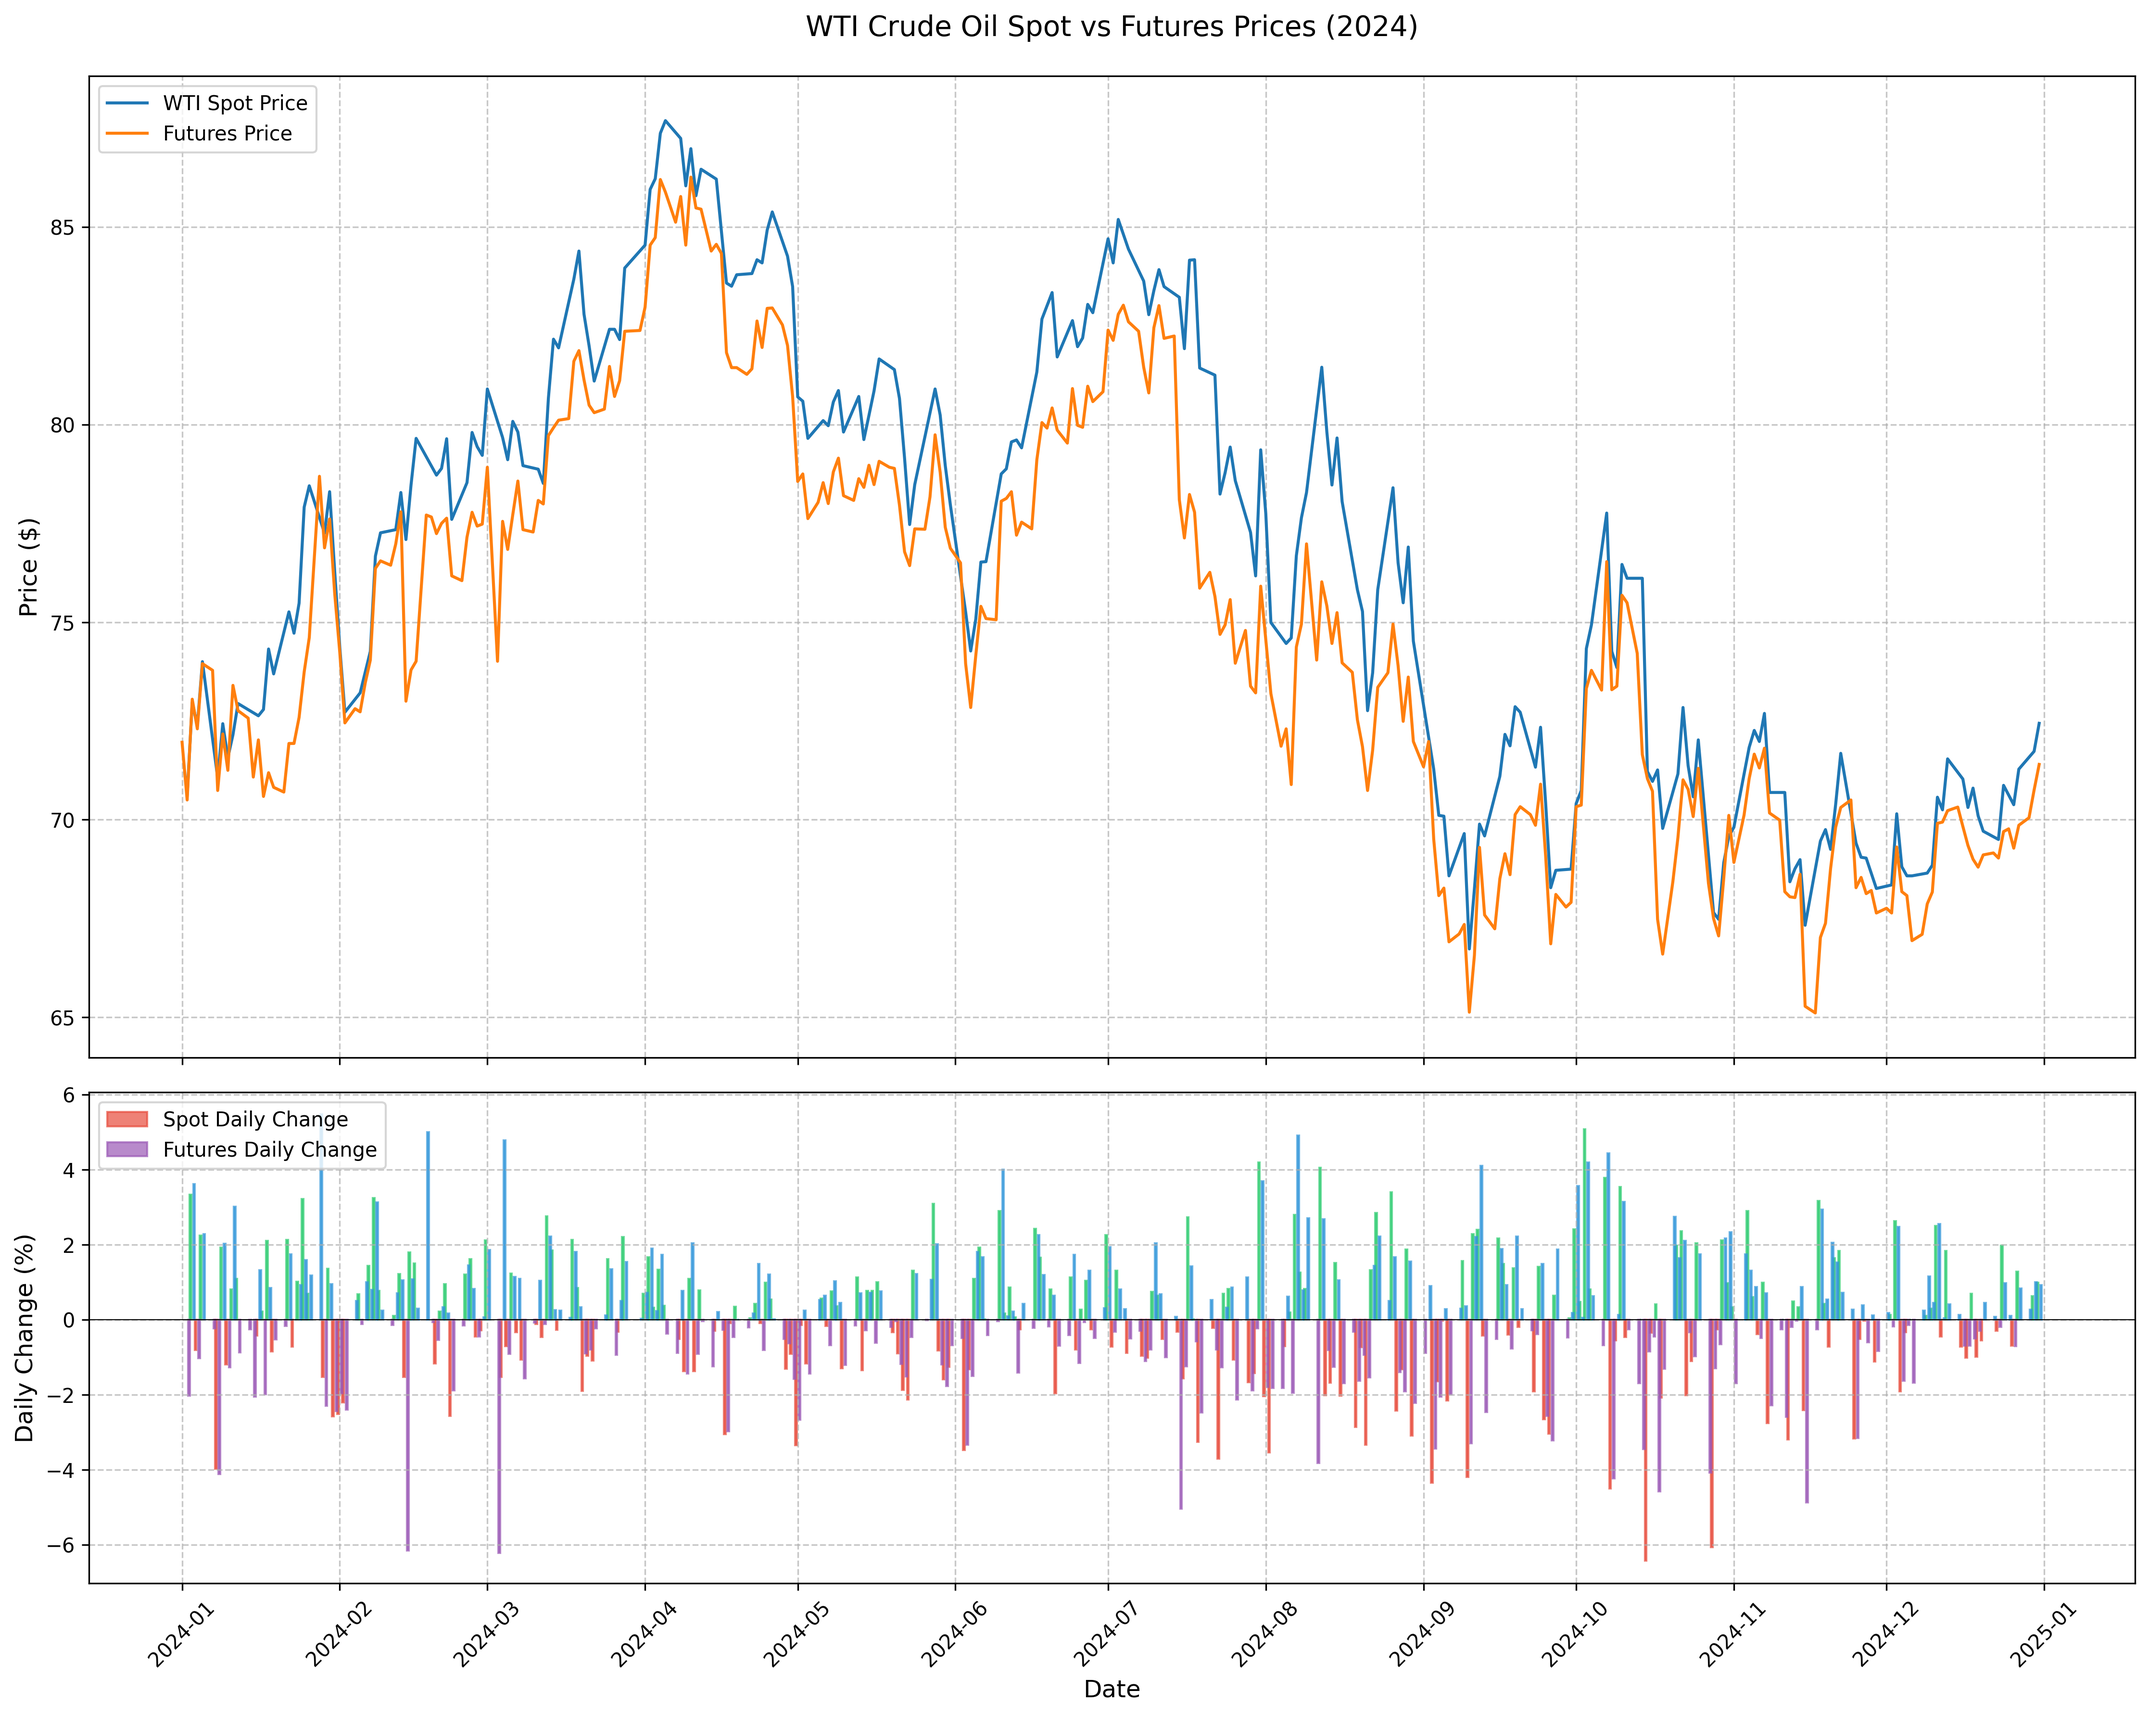
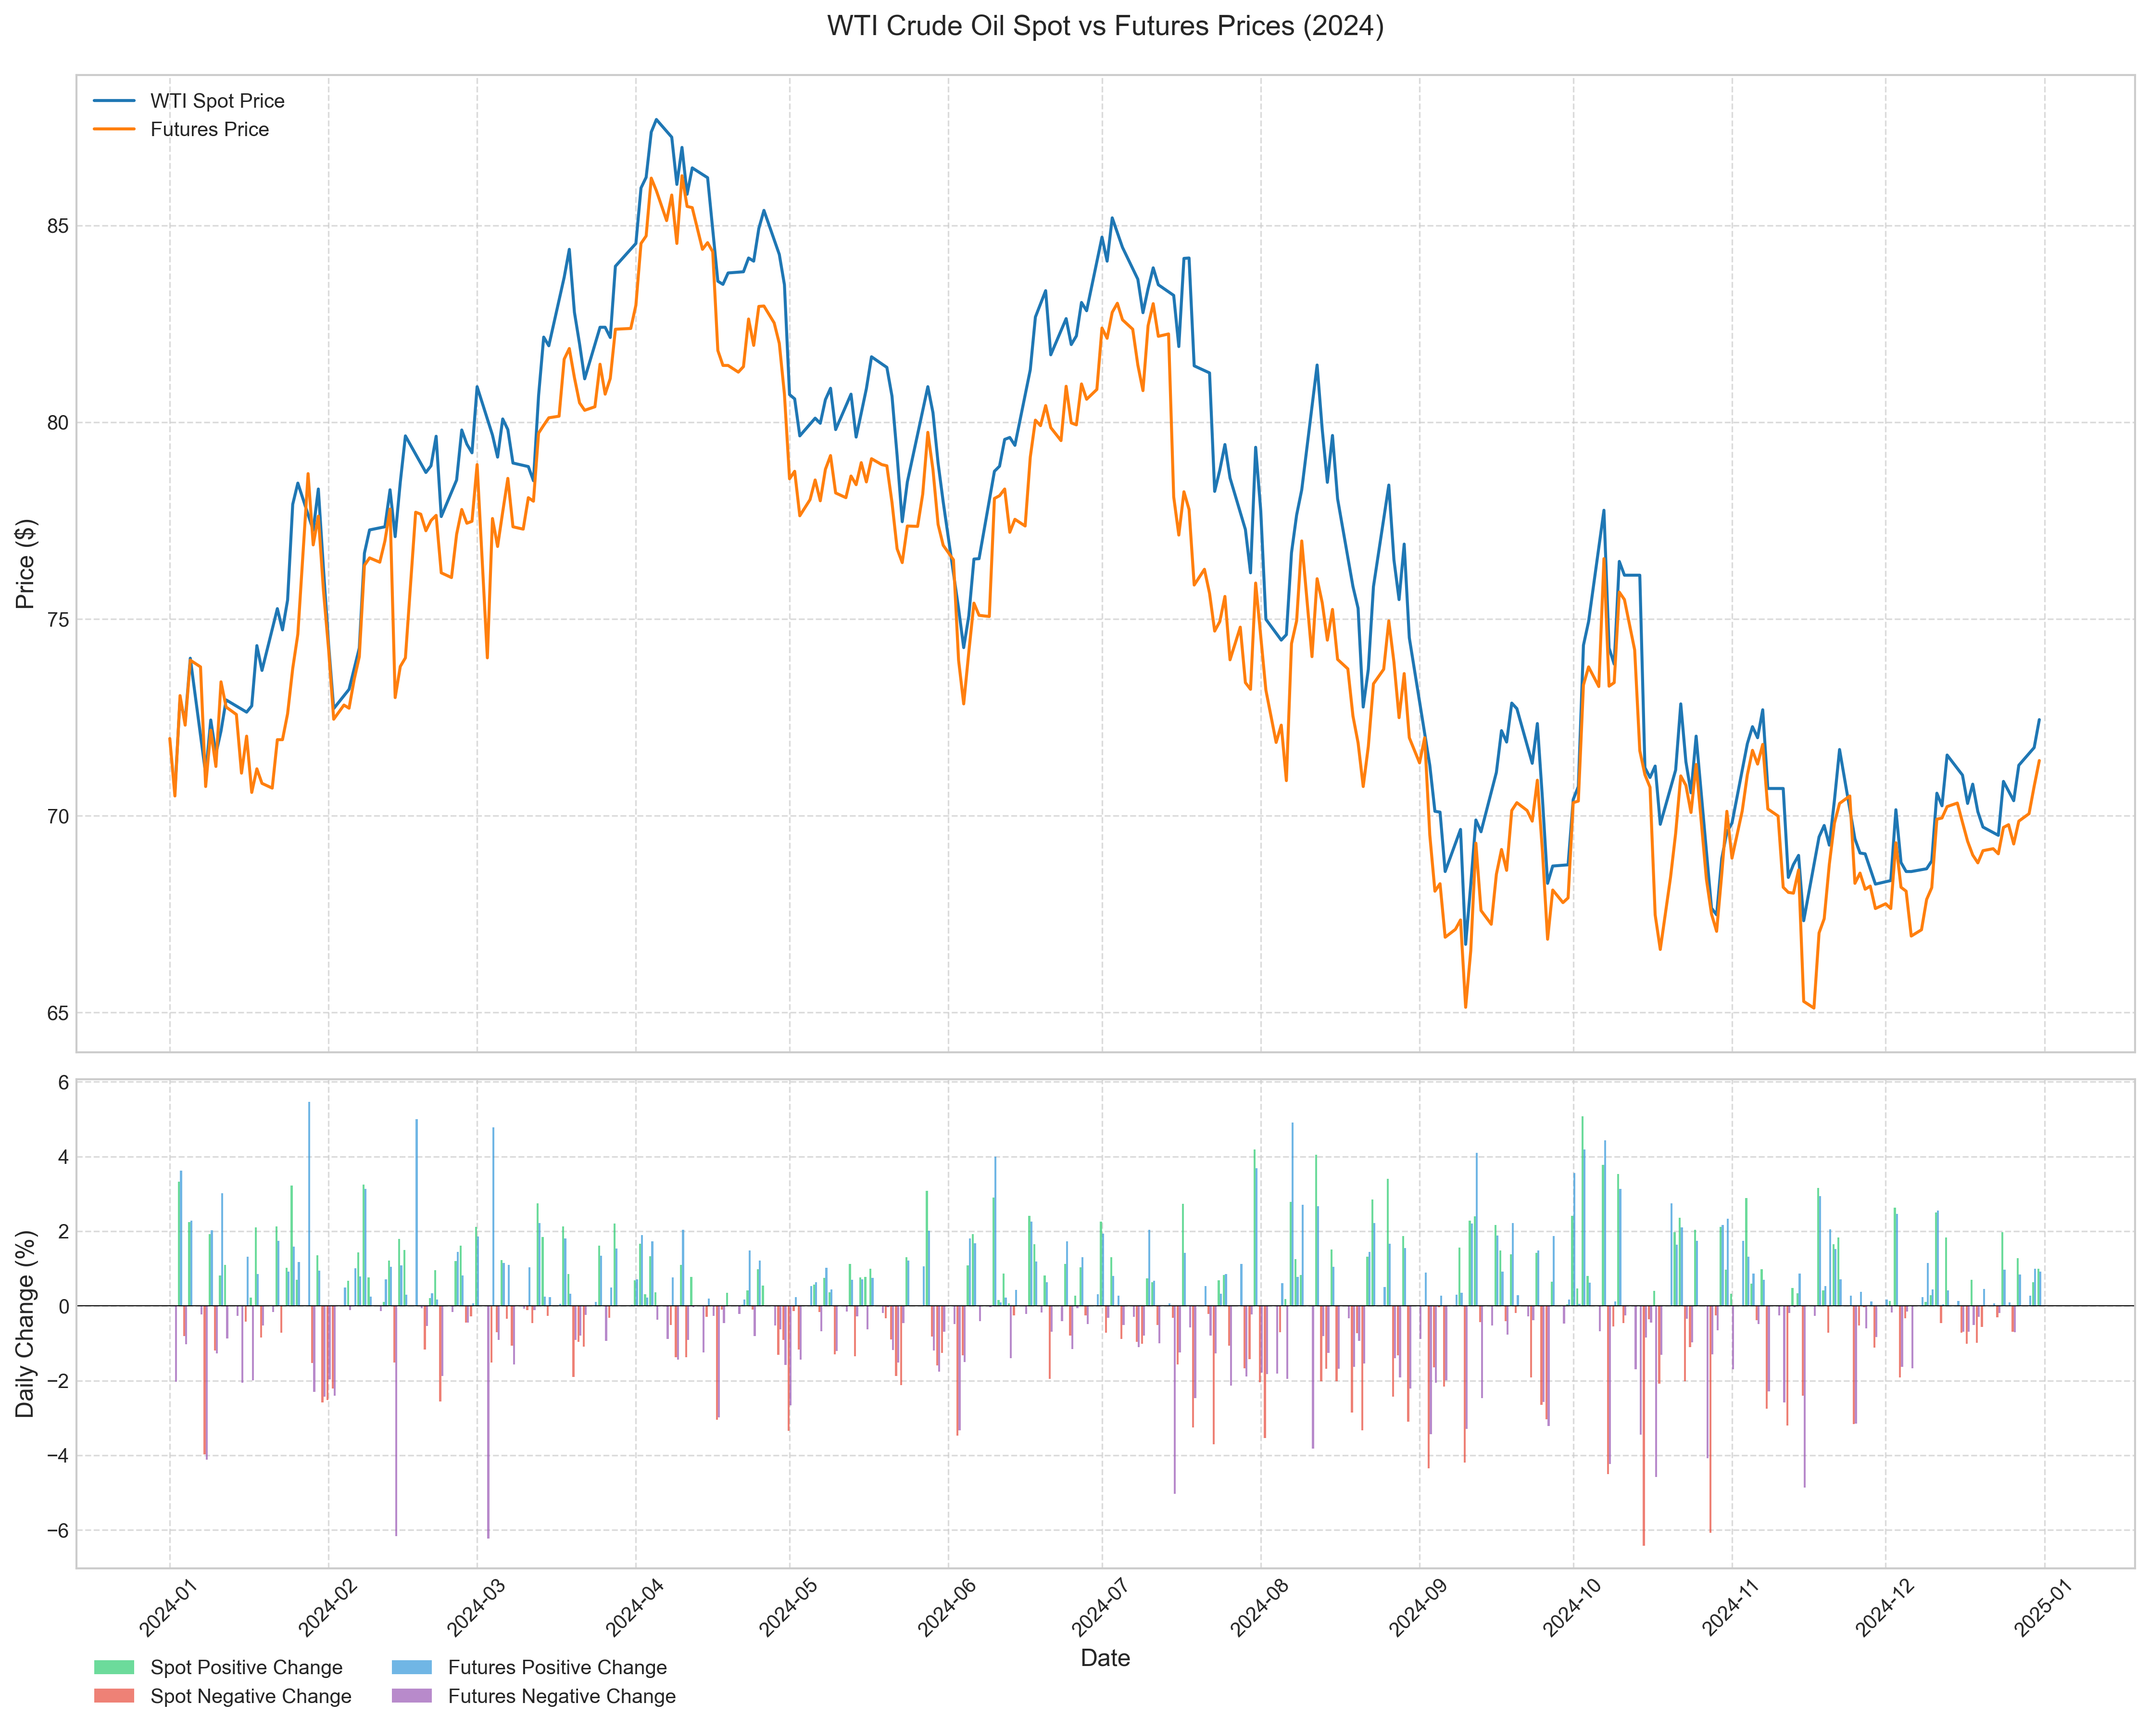
Fixed legend bug on mixed

diff --git a/analysis/mixed/compare_spot_futures.py b/analysis/mixed/compare_spot_futures.py
@@ -88,6 +88,9 @@ def get_futures_data():
     return df_futures
 
 def plot_comparison(df_spot, df_futures):
+    # Set style for better visibility
+    plt.style.use('seaborn-v0_8-whitegrid')
+    
     # Create figure with two subplots sharing x-axis
     fig, (ax1, ax2) = plt.subplots(2, 1, figsize=(15, 12), height_ratios=[2, 1], sharex=True)
     
@@ -103,35 +106,52 @@ def plot_comparison(df_spot, df_futures):
     ax1.grid(True, linestyle='--', alpha=0.7)
     ax1.legend(loc='upper left')
     
+    # Set y-axis limits with some padding
+    ymin = min(df_spot['price'].min(), df_futures['price'].min())
+    ymax = max(df_spot['price'].max(), df_futures['price'].max())
+    padding = (ymax - ymin) * 0.05
+    ax1.set_ylim(ymin - padding, ymax + padding)
+    
     # Bottom subplot - Daily changes
-    # Calculate bar width to avoid overlap
-    width = 0.35
+    # Calculate bar width to avoid overlap but ensure visibility
+    width = 0.4  # Increased width for better visibility
     
     # Create bars for spot prices (left position)
-    spot_bars = ax2.bar(df_spot['date'] - pd.Timedelta(days=width), 
-                       df_spot['daily_change'], 
-                       width=width, alpha=0.7, label='Spot Daily Change')
+    spot_mask_pos = df_spot['daily_change'] >= 0
+    spot_mask_neg = df_spot['daily_change'] < 0
+    
+    ax2.bar(df_spot.loc[spot_mask_pos, 'date'] - pd.Timedelta(days=width/2), 
+            df_spot.loc[spot_mask_pos, 'daily_change'], 
+            width=width, alpha=0.7, color='#2ecc71', label='Spot Positive Change')
+    ax2.bar(df_spot.loc[spot_mask_neg, 'date'] - pd.Timedelta(days=width/2), 
+            df_spot.loc[spot_mask_neg, 'daily_change'], 
+            width=width, alpha=0.7, color='#e74c3c', label='Spot Negative Change')
     
     # Create bars for futures prices (right position)
-    futures_bars = ax2.bar(df_futures['date'] + pd.Timedelta(days=width), 
-                          df_futures['daily_change'], 
-                          width=width, alpha=0.7, label='Futures Daily Change')
+    futures_mask_pos = df_futures['daily_change'] >= 0
+    futures_mask_neg = df_futures['daily_change'] < 0
     
-    # Color the bars based on positive/negative values
-    for bars, color_pos, color_neg in [(spot_bars, '#2ecc71', '#e74c3c'), 
-                                      (futures_bars, '#3498db', '#9b59b6')]:
-        for bar in bars:
-            if bar.get_height() >= 0:
-                bar.set_color(color_pos)
-            else:
-                bar.set_color(color_neg)
+    ax2.bar(df_futures.loc[futures_mask_pos, 'date'] + pd.Timedelta(days=width/2), 
+            df_futures.loc[futures_mask_pos, 'daily_change'], 
+            width=width, alpha=0.7, color='#3498db', label='Futures Positive Change')
+    ax2.bar(df_futures.loc[futures_mask_neg, 'date'] + pd.Timedelta(days=width/2), 
+            df_futures.loc[futures_mask_neg, 'daily_change'], 
+            width=width, alpha=0.7, color='#9b59b6', label='Futures Negative Change')
     
     # Customize bottom subplot
     ax2.set_xlabel('Date', fontsize=12)
     ax2.set_ylabel('Daily Change (%)', fontsize=12)
     ax2.grid(True, linestyle='--', alpha=0.7)
     ax2.axhline(y=0, color='black', linestyle='-', linewidth=0.5)
-    ax2.legend(loc='upper left')
+    
+    # Set y-axis limits for daily changes with some padding
+    ymin = min(df_spot['daily_change'].min(), df_futures['daily_change'].min())
+    ymax = max(df_spot['daily_change'].max(), df_futures['daily_change'].max())
+    padding = (ymax - ymin) * 0.05
+    ax2.set_ylim(ymin - padding, ymax + padding)
+    
+    # Improve legend
+    ax2.legend(loc='upper left', ncol=2, bbox_to_anchor=(0, -0.15))
     
     # Format x-axis for both subplots
     ax2.xaxis.set_major_locator(mdates.MonthLocator())
@@ -141,7 +161,7 @@ def plot_comparison(df_spot, df_futures):
     # Adjust layout
     plt.tight_layout()
     
-    # Save the plot
+    # Save the plot with high quality
     plt.savefig('spot_futures_comparison.png', dpi=300, bbox_inches='tight')
     plt.close()
 
